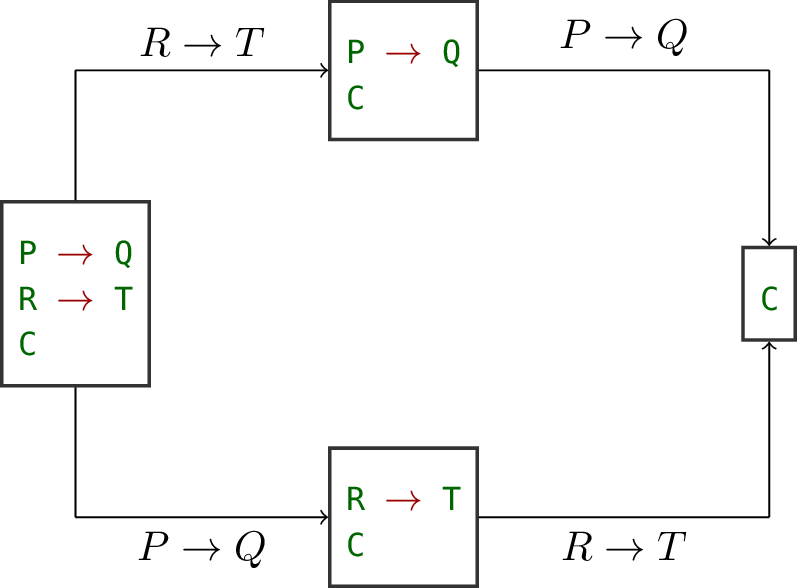
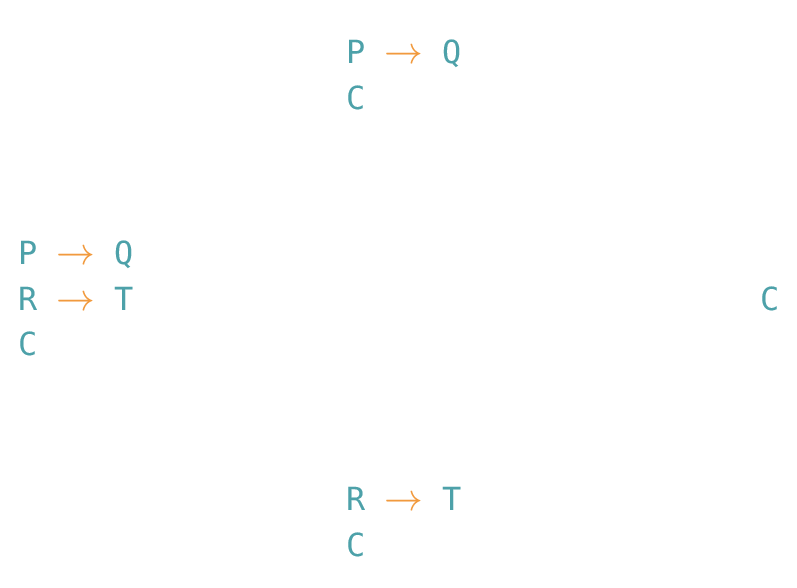
Fix confluence diagram

diff --git a/src/Lic/confluence.tex b/src/Lic/confluence.tex
@@ -1,10 +1,13 @@
-\documentclass[tikz,22pt,convert={outfile=\jobname.svg}]{standalone}
+\documentclass[tikz,22pt,convert={outfile=\jobname.png}]{standalone}
 
 \usetikzlibrary{automata,shapes,topaths,arrows,positioning,fit,automata,backgrounds,trees}
 \usepackage{listings}
 
 \usepackage[T1]{fontenc}
 \usepackage[scaled=0.85]{beramono}%% mono
+
+\definecolor{naranja}{HTML}{F19A3E}
+\definecolor{azul}{HTML}{4DA1A9}
 
 \lstdefinelanguage{Chor}{
   keywords={Com, Sel, If, Then, Else,  Set},
@@ -21,10 +24,10 @@
   {|>} {{$\rangle$}}{2}
   {[|]} {{$\blacksquare$}}{2}},
   ndkeywords={p,q,p',q',Q,P,C,Q',P',B1,B2,S,R,T},
-  ndkeywordstyle=\color{green!40!black},
+  ndkeywordstyle=\color{azul}, %\color{green!40!black},
   identifierstyle=\color{black},
   sensitive=true,
-  basicstyle=\small\ttfamily\color{red!60!black},
+  basicstyle=\small\ttfamily\color{naranja},
   comment=[l]{--},
   commentstyle=\color{purple!40!black}\itshape,
   stringstyle=\color{red}\ttfamily
@@ -52,13 +55,13 @@ preaction={-triangle 90,thin,draw,shorten >=-1mm}]
 draw=blue!30,thick,inner sep=16pt,minimum size=4mm]
 
 \tikzstyle{CODE}=[rectangle,%draw=black,
-draw=black!80,thick,inner sep=4pt,minimum size=4mm]
+draw=white,thick,inner sep=4pt,minimum size=4mm]
 
 \pgfdeclarelayer{background}
 \pgfdeclarelayer{back}
 \pgfsetlayers{back,background,main}
 
-    \begin{tikzpicture}[every node/.style={node distance=0.6cm,align=center}]
+\begin{tikzpicture}[every node/.style={node distance=0.6cm,align=center}]
       \node[CODE] (c1) {
         \begin{lstlisting}[language=Chor]
 P -> Q
@@ -85,15 +88,15 @@ C
       };
 
 
-      \path (c1 |- c2) edge[->] node[above] {$R \to T$} (c2)
-            (c1 |- c3) edge[->] node[below] {$P \to Q$} (c3)
-            (c2) edge[]         node[above] {$P \to Q$} (c2 -| c4)
-            (c3) edge[]         node[below] {$R \to T$} (c3 -| c4)
+      \path (c1 |- c2) edge[draw=white,->] node[above] {\color{white} $R \to T$} (c2)
+            (c1 |- c3) edge[draw=white,->] node[below] {\color{white} $P \to Q$} (c3)
+            (c2) edge[draw=white]          node[above] {\color{white} $P \to Q$} (c2 -| c4)
+            (c3) edge[draw=white]          node[below] {\color{white} $R \to T$} (c3 -| c4)
 
-            (c1) edge[] (c1 |- c2)
-            (c1) edge[] (c1 |- c3)
-            (c4) edge[<-] (c2 -| c4)
-            (c4) edge[<-] (c3 -| c4)
+            (c1) edge[draw=white]    (c1 |- c2)
+            (c1) edge[draw=white]    (c1 |- c3)
+            (c4) edge[draw=white,<-] (c2 -| c4)
+            (c4) edge[draw=white,<-] (c3 -| c4)
             ;
           \end{tikzpicture}
 \end{document}
